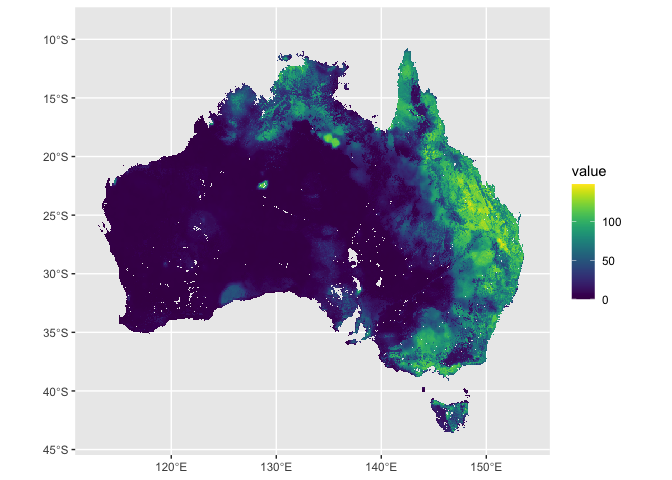
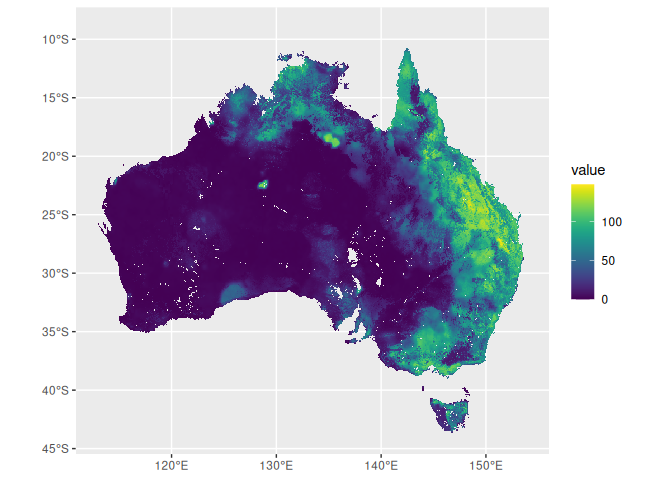
Updated README with extra datasets, collect_tern_data() description

diff --git a/README.md b/README.md
@@ -1,30 +1,49 @@
----
-output: github_document
----
 
 <!-- README.md is generated from README.Rmd. Please edit that file -->
-
-
 
 # nert
 
 <!-- badges: start -->
-[![Project Status: Active](https://www.repostatus.org/badges/latest/active.svg)](https://www.repostatus.org/#active)
+
+[![Project Status:
+Active](https://www.repostatus.org/badges/latest/active.svg)](https://www.repostatus.org/#active)
 [![R-CMD-check](https://github.com/AAGI-AUS/nert/actions/workflows/R-CMD-check.yaml/badge.svg)](https://github.com/AAGI-AUS/nert/actions/workflows/R-CMD-check.yaml)
 [![codecov](https://codecov.io/gh/AAGI-AUS/nert/graph/badge.svg?token=WgBeTrqQnQ)](https://app.codecov.io/gh/AAGI-AUS/nert)
 <!-- badges: end -->
 
-The goal of {nert} is to provide access to Australian TERN (Terrestrial Ecosystem Research Network) data in your R session.
+The {nert} package streamlines access to various Cloud-Optimised GeoTIFF
+(COG) datasets provided by the Australian Terrestrial Ecosystem Research
+Network (TERN), allowing you to easily incorporate these environmental
+datasets into your R analytics. Currently supported datasets in the
+{nert} package include:
+
+- Daily volumetric soil moisture estimates from the Soil Moisture
+  Integration and Prediction System (SMIPS),
+- Actual evapotranspiration estimates using the CSIRO MODIS
+  Reflectance-based Scaling EvapoTranspiration (CMRSET) algorithm,
+- Soil orders from the Australian Soil Classification Map,
+- Canopy height estimates from the OzTreeMap best-pick canopy height
+  model,
+- Australian land surface phenology based on thresholded MODIS Enhanced
+  Vegetation Index (EVI) data,
+- Soil and Landscape Grid of Australia (SLGA) datasets, including
+  available volumetric water capacity, clay/sand/silt content, Bulk
+  Density (whole earth) measurements, soil pH (CaCl2 and water),
+  nitrogen and phosphorus content, cation exchange capacity, and the
+  drained upper limit and 15-bar lower limit water content readings,
+- Soil bacteria and soil fungi Beta Diversity datasets.
 
 ## Installation instructions
 
-{nert} is available through the [R-Universe](https://r-universe.dev/search) with pre-built binaries (this is the easy way).
+{nert} is available through the
+[R-Universe](https://r-universe.dev/search) with pre-built binaries
+(this is the easy way).
 
 To get started:
 
 ### Enable this universe
 
-```r
+``` r
 options(
   repos = c(
     AAGI = "https://aagi-aus.r-universe.dev",
@@ -35,17 +54,23 @@ options(
 
 ### Install
 
-```r
+``` r
 install.packages("nert")
 ```
 
 ### The hard(er) way
 
-Note that for Linux users, you will need to install system libraries to support geospatial packages in R, _e.g._, {sf} and {terra} as well as some packages for downloading data via [curl](https://curl.se/download.html), please see [Note for Linux Installers](#Note-for-Linux-Installers).
-If you run into errors, _e.g._, `Bad GitHub Credentials`, please read this: [Managing Git(Hub) Credentials](https://usethis.r-lib.org/articles/git-credentials.html) and set up your GitHub credentials in R and try again.
+Note that for Linux users, you will need to install system libraries to
+support geospatial packages in R, *e.g.*, {sf} and {terra} as well as
+some packages for downloading data via
+[curl](https://curl.se/download.html), please see [Note for Linux
+Installers](#Note-for-Linux-Installers). If you run into errors, *e.g.*,
+`Bad GitHub Credentials`, please read this: [Managing Git(Hub)
+Credentials](https://usethis.r-lib.org/articles/git-credentials.html)
+and set up your GitHub credentials in R and try again.
 
-You can install the development version of {nert} from [GitHub](https://github.com/AAGI-AUS/nert) with:
-
+You can install the development version of {nert} from
+[GitHub](https://github.com/AAGI-AUS/nert) with:
 
 ``` r
 o <- options() # store original options
@@ -60,75 +85,94 @@ pak::pak("AAGI-AUS/nert")
 options(o) # reset options
 ```
 
-## Example: reading a COG as a spatial object
+## Example: reading a SMIPS COG as a spatial object
 
-This is a basic example which shows you how you can fetch one day's data from the SMIPS data and visualise it:
-
+The {nert} package provides a number of convenient functions such as
+`read_smips()` which allow you to fetch COGs from the TERN Data Portal
+for use in your R session. The below code fetches the SMIPS soil
+moisture raster for the 1st of January 2024, and then uses the {terra}
+package’s `extract()` function to get a soil moisture estimate for the
+Adelaide CBD. Note that since these are cloud-optimised COGs, they
+employ Just-In-Time data streaming: that is, *only the bytes necessary
+for the spatial extent we actually need are downloaded*, resulting in
+significant time and disk-space savings.
 
 ``` r
 library(nert)
-r <- read_smips(date = "2024-01-01")
+library(terra)
+#> terra 1.9.27
 
-# `autoplot` is re-exported from {tidyterra}
+r <- read_smips(date = "2024-01-01")
+extract(r, xy = TRUE, data.frame(lon = 138.6007, lat = -34.9285))
+#>   ID smips_totalbucket_mm_20240101        x         y
+#> 1  1                      46.07692 138.6037 -34.93254
+```
+
+The {nert} package also re-exports {tidyterra}’s `autoplot()` function,
+which can be used to create a visualisation of the Australia-wide data
+rasters.
+
+``` r
 autoplot(r)
 #> <SpatRaster> resampled to 501270 cells.
 ```
 
 <img src="man/figures/README-example_cog-1.png" alt="" width="100%" />
 
-## Extract Values Given Lat/Lon Values
+## Extract Values in Bulk Given Lat/Lon Values
 
-Extract Soil Moisture for Corrigin and Merriden, WA and Tamworth, NSW given latitude and longitude values for each.
-
+The {nert} package also provides a convenient function
+`collect_tern_data()` which allows you to easily grab multiple TERN
+datasets across multiple times and multiple spatial locations. For
+example, the below code grabs the SMIPS “totalbucket” and SLGA “CLY”
+clay content estimates at 0-5cm across the first week of 2024 at
+Merriden, WA and Tamworth, NSW:
 
 ``` r
-library(terra)
-#> terra 1.9.11
-#> 
-#> Attaching package: 'terra'
-#> The following object is masked from 'package:knitr':
-#> 
-#>     spin
-df <- structure(
-  list(
-    location = c("Corrigin", "Merredin", "Tamworth"),
-    x = c(117.87, 118.28, 150.84),
-    y = c(-32.33, -31.48, -31.07)
-  ),
-  row.names = c(NA, -3L),
-  class = "data.frame"
+dat <- collect_tern_data(
+  xy = data.frame(lon = c(118.28, 150.84), lat = c(-31.48, -31.07)),
+  date_range = c("2024-01-01", "2024-01-07"),
+  datasets = c("SMIPS", "CLY"),
+  smips_collection = "totalbucket",
+  depth = "000_005",
+  verbose = FALSE
 )
-
-cog_df <- extract(x = r, y = df[, c("x", "y")], xy = TRUE)
-
-cog_df <- cbind(df$location, cog_df)
-names(cog_df) <- c("location", "ID", "smips_totalbucket_mm_20240101", "x", "y")
-cog_df
-#>   location ID smips_totalbucket_mm_20240101        x         y
-#> 1 Corrigin  1                    0.06715473 117.8688 -32.33328
-#> 2 Merredin  2                    0.22716530 118.2787 -31.48353
-#> 3 Tamworth  3                   93.44989014 150.8408 -31.07365
+head(dat)
+#>          date    lon    lat SMIPS_totalbucket   CLY
+#>        <Date>  <num>  <num>             <num> <num>
+#> 1: 2024-01-01 118.28 -31.48         0.2271653    11
+#> 2: 2024-01-01 150.84 -31.07        93.4498901    28
+#> 3: 2024-01-02 118.28 -31.48         0.2135102    11
+#> 4: 2024-01-02 150.84 -31.07        90.6175690    28
+#> 5: 2024-01-03 118.28 -31.48         0.2344290    11
+#> 6: 2024-01-03 150.84 -31.07        88.5260391    28
 ```
 
-## Keeping {nert} Updated 
+## Keeping {nert} Updated
 
-{nert} is undergoing active development and is not yet on CRAN.
-If you installed {nert} using the R-Universe (the preferred method), you can keep {nert} up-to-date locally like so:
-
+{nert} is undergoing active development and is not yet on CRAN. If you
+installed {nert} using the R-Universe (the preferred method), you can
+keep {nert} up-to-date locally like so:
 
 ``` r
 update.packages()
 ```
 
-and answering `yes` or `y` when asked if you would like to upgrade {nert}.
+and answering `yes` or `y` when asked if you would like to upgrade
+{nert}.
 
 ## Note for Linux Installers
 
-If you are using Linux, you will likely need to install several system-level libraries, {pak} will do it's best to install most of them but some may not be installable this way.
-For [Nectar](https://ardc.edu.au/services/ardc-nectar-research-cloud/) with a fresh Ubuntu image, you can use the following command to install system libraries to install {pak} and then install {fifo}.
-In your Linux terminal (not your R console, the "terminal" tab in RStudio should do here in most cases) type:
+If you are using Linux, you will likely need to install several
+system-level libraries, {pak} will do it’s best to install most of them
+but some may not be installable this way. For
+[Nectar](https://ardc.edu.au/services/ardc-nectar-research-cloud/) with
+a fresh Ubuntu image, you can use the following command to install
+system libraries to install {pak} and then install {fifo}. In your Linux
+terminal (not your R console, the “terminal” tab in RStudio should do
+here in most cases) type:
 
-```bash
+``` bash
 sudo apt update && sudo apt install libcurl4-openssl-dev libgdal-dev gdal-bin libgeos-dev libproj-dev libsqlite3-dev libudunits2-dev libxml2-dev
 ```
 
@@ -138,20 +182,17 @@ sudo apt update && sudo apt install libcurl4-openssl-dev libgdal-dev gdal-bin li
 
 Set up the container.
 
-
 ``` bash
 devcontainer up --workspace-folder .
 ```
 
 Run tests and check stuff.
 
-
 ``` bash
 devcontainer exec --workspace-folder . R -e "devtools::check()"
 ```
 
 Render this file.
-
 
 ``` bash
 devcontainer exec --workspace-folder . R -e "devtools::build_readme()"
@@ -161,22 +202,21 @@ devcontainer exec --workspace-folder . R -e "devtools::build_readme()"
 
 To cite nert:
 
-
 ``` r
 citation("nert")
 #> To cite package 'nert' in publications use:
 #> 
-#>   Sparks A, Pipattungsakul W, Edson R, Rogers S, Moldovan M (2026). _nert: An
-#>   API Client for TERN Data_. R package version 0.0.1.9000, commit
-#>   05d08aa660d47856bd897faa2d2d4c2dbdbbaa53, <https://github.com/AAGI-AUS/nert>.
+#>   Sparks AH, Pipattungsakul W, Edson R, Rogers S, Moldovan M (2026).
+#>   nert: An API Client for TERN Data. R package version 1.1.0.
+#>   https://aagi-aus.github.io/nert/
 #> 
 #> A BibTeX entry for LaTeX users is
 #> 
 #>   @Manual{,
-#>     title = {nert: An API Client for TERN Data},
+#>     title = {{nert}: An API Client for TERN Data},
 #>     author = {Adam H. Sparks and Wasin Pipattungsakul and Russell Edson and Sam Rogers and Max Moldovan},
 #>     year = {2026},
-#>     note = {R package version 0.0.1.9000, commit 05d08aa660d47856bd897faa2d2d4c2dbdbbaa53},
-#>     url = {https://github.com/AAGI-AUS/nert},
+#>     note = {R package version 1.1.0},
+#>     url = {https://aagi-aus.github.io/nert/},
 #>   }
 ```